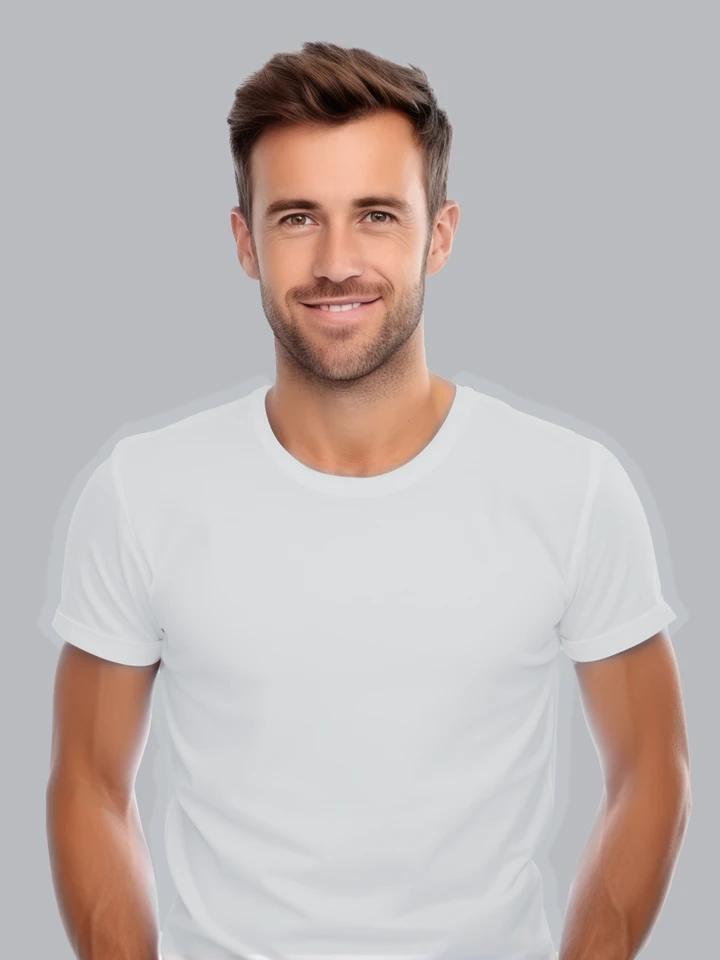
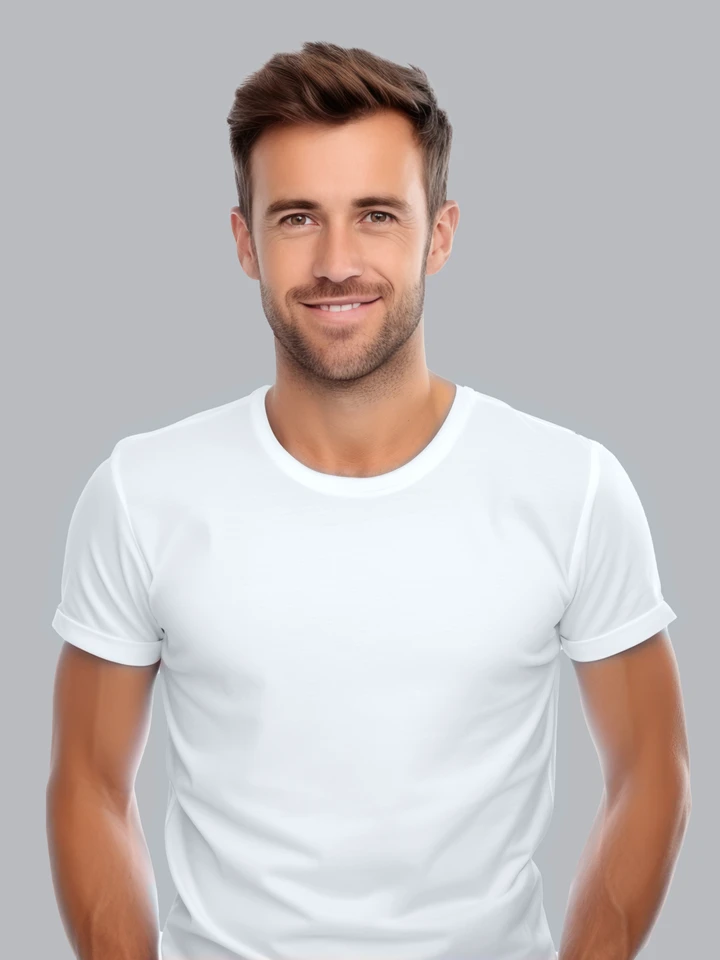
Switch garment recolor to a Lab color-swap (mask, then color only)
Replaces the overlay-blend recolor engine with a Lab-space channel
swap: convert each garment pixel to CIE Lab, keep its own L
(lightness) untouched, and replace only a*/b* with the target
color's. This preserves folds, shadows and fabric texture exactly as
photographed since only hue/saturation change, matching how
Photoshop's "Color" blend mode works. The cached segmentation mask
(garment-layer.png) is reused as-is; only its already-feathered alpha
is needed now, not its stored grayscale.

Applied to both the offline pre-render script (render-variants.mjs,
now backed by a shared lab-color.mjs) and the live PixiJS product-page
shader (recolor-shader.ts / recolor-canvas.tsx), so the cached listing
thumbnails and the live studio agree. Regenerated all 16 existing
variant images for the 4 cataloged products with the new method.

diff --git a/frontend/src/lib/recolor-shader.ts b/frontend/src/lib/recolor-shader.ts
@@ -1,7 +1,7 @@
 // GLSL for the PixiJS live recolor mesh.
-// The garment is pre-isolated (offline) into its own grayscale+alpha "garment-layer" PNG,
-// stacked pixel-aligned on top of the untouched product photo. Only this layer is drawn
-// here; alpha 0 lets the original photo show through unmodified outside the garment.
+// The garment mask is pre-isolated (offline) into a feathered-alpha "garment-layer" PNG,
+// pixel-aligned with the untouched product photo (uBase). Only pixels under that mask are
+// touched here; alpha 0 lets the original photo show through unmodified outside the garment.
 
 export const RECOLOR_VERTEX = /* glsl */ `
 in vec2 aPosition;
@@ -16,46 +16,53 @@ void main() {
   vUV = aUV;
 }`;
 
-// Overlay blend: keeps shadow/highlight detail visible even on very dark or very light
-// target colors (black doesn't crush to a flat block, white doesn't blow out to it).
+// Lab color-swap: convert the source pixel to CIE Lab, keep its own L (lightness) untouched
+// and replace only a*/b* (color) with the target's — the same trick as Photoshop's "Color"
+// blend mode. Folds, shadows and fabric texture come straight from the photo's own
+// brightness; only hue/saturation change. Matches scripts/lab-color.mjs used offline to
+// pre-render the listing thumbnails, so the live canvas and the cached variants agree.
 export const RECOLOR_FRAGMENT = /* glsl */ `
 in vec2 vUV;
 out vec4 finalColor;
+uniform sampler2D uBase;
 uniform sampler2D uGarment;
-uniform vec3 uColor;
-uniform float uSourceLum; // this photo's own average garment brightness, 0-1
+uniform vec2 uTargetAB; // target color's Lab a*, b*
+
+float srgbToLinear(float v) { return v <= 0.04045 ? v / 12.92 : pow((v + 0.055) / 1.055, 2.4); }
+float linearToSrgb(float v) { return v <= 0.0031308 ? v * 12.92 : 1.055 * pow(v, 1.0 / 2.4) - 0.055; }
+float fwdLab(float t) { return t > 216.0 / 24389.0 ? pow(t, 1.0 / 3.0) : (24389.0 / 27.0 * t + 16.0) / 116.0; }
+float invLab(float t) { return t > 6.0 / 29.0 ? t * t * t : 3.0 * pow(6.0 / 29.0, 2.0) * (t - 4.0 / 29.0); }
+
+const vec3 D65 = vec3(0.95047, 1.0, 1.08883);
+
+float rgbToLabL(vec3 c) {
+  vec3 lin = vec3(srgbToLinear(c.r), srgbToLinear(c.g), srgbToLinear(c.b));
+  float Y = (lin.r * 0.2126729 + lin.g * 0.7151522 + lin.b * 0.072175) / D65.y;
+  return 116.0 * fwdLab(Y) - 16.0;
+}
+
+vec3 labToRgb(float L, float a, float b) {
+  float fy = (L + 16.0) / 116.0;
+  float fx = fy + a / 500.0;
+  float fz = fy - b / 200.0;
+  vec3 xyz = vec3(invLab(fx) * D65.x, invLab(fy) * D65.y, invLab(fz) * D65.z);
+  vec3 lin = vec3(
+    dot(xyz, vec3(3.2404542, -1.5371385, -0.4985314)),
+    dot(xyz, vec3(-0.969266, 1.8760108, 0.041556)),
+    dot(xyz, vec3(0.0556434, -0.2040259, 1.0572252))
+  );
+  lin = clamp(lin, 0.0, 1.0);
+  return vec3(linearToSrgb(lin.r), linearToSrgb(lin.g), linearToSrgb(lin.b));
+}
 
 void main() {
-  vec4 px = texture(uGarment, vUV);
-  if (px.a <= 0.0001) {
+  float mask = texture(uGarment, vUV).a;
+  if (mask <= 0.0001) {
     finalColor = vec4(0.0);
     return;
   }
-  float g = px.r / px.a; // un-premultiply grayscale shading (r == g == b)
-  // compress the shading range so neither black nor white targets clip to pure 0/1 —
-  // keeps soft, believable shadow depth at both ends instead of crushing to near-black
-  // blotches (white) or a flat block (black)
-  g = mix(0.22, 0.88, g);
-  vec3 low = 2.0 * uColor * g;
-  vec3 high = 1.0 - 2.0 * (1.0 - uColor) * (1.0 - g);
-  vec3 overlay = clamp(mix(low, high, vec3(step(0.5, g))), 0.0, 1.0);
-  // Pure overlay blend can't reach a target far from the source photo's own average
-  // brightness — a light target on a dark photo (or a dark target on a light photo) hits a
-  // ceiling/floor set by the source pixel's own brightness either way. Mix in some flat
-  // target color so extreme colors read correctly; scale that fraction by how far the
-  // target sits from mid-grey, so colors close to the original (already accurate from
-  // overlay alone) keep full fold/shadow realism while black/white/saturated ones give up
-  // some of it to actually look right.
-  float targetLum = dot(uColor, vec3(0.299, 0.587, 0.114));
-  float strength = mix(0.15, 0.65, abs(targetLum - 0.5) * 2.0);
-  // A light target needs much less of that flat-color help when the source photo is
-  // already naturally bright (overlay alone already lands close to it) — without this,
-  // a light target on an already-bright photo gets pushed past the real photo into a
-  // flat, overexposed block. Only light targets are dampened; dark targets and darker
-  // source photos (where overlay alone can't get there) are unaffected.
-  if (targetLum > 0.5) {
-    strength *= mix(1.0, 0.35, uSourceLum);
-  }
-  vec3 blended = mix(overlay, uColor, strength);
-  finalColor = vec4(blended * px.a, px.a);
+  vec3 src = texture(uBase, vUV).rgb;
+  float L = rgbToLabL(src);
+  vec3 recolored = labToRgb(L, uTargetAB.x, uTargetAB.y);
+  finalColor = vec4(recolored * mask, mask);
 }`;

diff --git a/frontend/src/components/recolor-canvas.tsx b/frontend/src/components/recolor-canvas.tsx
@@ -20,7 +20,19 @@ type Props = {
   onReady?: (meta: GarmentMeta) => void;
 };
 
-const hexToRgb = (h: string) => [1, 3, 5].map((i) => parseInt(h.slice(i, i + 2), 16) / 255);
+const srgbToLinear = (v: number) => (v <= 0.04045 ? v / 12.92 : Math.pow((v + 0.055) / 1.055, 2.4));
+const fwdLab = (t: number) => (t > 216 / 24389 ? Math.cbrt(t) : (24389 / 27 * t + 16) / 116);
+
+/** Target color's Lab a/b chroma channels (D65) — the live shader keeps the source pixel's
+ * own L and replaces only these, see RECOLOR_FRAGMENT in recolor-shader.ts. */
+function hexToLabAB(h: string): [number, number] {
+  const [r, g, b] = [1, 3, 5].map((i) => srgbToLinear(parseInt(h.slice(i, i + 2), 16) / 255));
+  const X = (r * 0.4124564 + g * 0.3575761 + b * 0.1804375) / 0.95047;
+  const Y = r * 0.2126729 + g * 0.7151522 + b * 0.072175;
+  const Z = (r * 0.0193339 + g * 0.119192 + b * 0.9503041) / 1.08883;
+  const fx = fwdLab(X), fy = fwdLab(Y), fz = fwdLab(Z);
+  return [500 * (fx - fy), 200 * (fy - fz)];
+}
 
 function loadImage(url: string) {
   return new Promise<HTMLImageElement>((resolve, reject) => {
@@ -31,10 +43,8 @@ function loadImage(url: string) {
   });
 }
 
-/** Bounding box of the garment's non-transparent pixels (for the studio's print-area
- * placement), and the garment's own average brightness (for the recolor shader's
- * light-target dampening — see uSourceLum in recolor-shader.ts). */
-function scanGarment(img: HTMLImageElement): { bbox: [number, number, number, number]; avgLum: number } {
+/** Bounding box of the garment's non-transparent pixels, for the studio's print-area placement. */
+function scanGarment(img: HTMLImageElement): { bbox: [number, number, number, number] } {
   const canvas = document.createElement("canvas");
   canvas.width = img.width;
   canvas.height = img.height;
@@ -42,7 +52,6 @@ function scanGarment(img: HTMLImageElement): { bbox: [number, number, number, nu
   ctx.drawImage(img, 0, 0);
   const { data } = ctx.getImageData(0, 0, img.width, img.height);
   let x0 = img.width, y0 = img.height, x1 = 0, y1 = 0;
-  let lumSum = 0, count = 0;
   for (let y = 0; y < img.height; y++) {
     for (let x = 0; x < img.width; x++) {
       const i = (y * img.width + x) * 4;
@@ -51,19 +60,14 @@ function scanGarment(img: HTMLImageElement): { bbox: [number, number, number, nu
         if (x > x1) x1 = x;
         if (y < y0) y0 = y;
         if (y > y1) y1 = y;
-        lumSum += data[i];
-        count++;
       }
     }
   }
-  return {
-    bbox: x1 > x0 ? [x0, y0, x1, y1] : [0, 0, img.width, img.height],
-    avgLum: count > 0 ? lumSum / count / 255 : 0.5,
-  };
+  return { bbox: x1 > x0 ? [x0, y0, x1, y1] : [0, 0, img.width, img.height] };
 }
 
-/** Live garment recolor: a grayscale "garment-layer" PNG, overlay-blended and stacked on
- * the untouched product photo. Changing a color is one uniform update + one render. */
+/** Live garment recolor: a feathered-alpha "garment-layer" mask, Lab color-swapped live
+ * against the untouched product photo. Changing a color is one uniform update + one render. */
 export const RecolorCanvas = forwardRef<RecolorHandle, Props>(function RecolorCanvas(
   { slug, topColor, className, onReady },
   ref
@@ -100,7 +104,7 @@ export const RecolorCanvas = forwardRef<RecolorHandle, Props>(function RecolorCa
         ]);
         if (cancelled) return;
         const W = modelImg.width, H = modelImg.height;
-        const { bbox, avgLum } = scanGarment(garmentImg);
+        const { bbox } = scanGarment(garmentImg);
         const meta: GarmentMeta = { width: W, height: H, bbox };
 
         app = new PIXI.Application();
@@ -133,10 +137,10 @@ export const RecolorCanvas = forwardRef<RecolorHandle, Props>(function RecolorCa
         const shader = PIXI.Shader.from({
           gl: { vertex: RECOLOR_VERTEX, fragment: RECOLOR_FRAGMENT },
           resources: {
+            uBase: PIXI.Texture.from(modelImg).source,
             uGarment: PIXI.Texture.from(garmentImg).source,
             recolor: {
-              uColor: { value: new Float32Array(3), type: "vec3<f32>" },
-              uSourceLum: { value: avgLum, type: "f32" },
+              uTargetAB: { value: new Float32Array(2), type: "vec2<f32>" },
             },
           },
         });
@@ -180,7 +184,7 @@ export const RecolorCanvas = forwardRef<RecolorHandle, Props>(function RecolorCa
     if (!shader || !mesh || !app) return;
     mesh.visible = topColor !== null;
     if (topColor !== null) {
-      shader.resources.recolor.uniforms.uColor.set(hexToRgb(topColor));
+      shader.resources.recolor.uniforms.uTargetAB.set(hexToLabAB(topColor));
     }
     app.render();
   }, [topColor, loading]);
